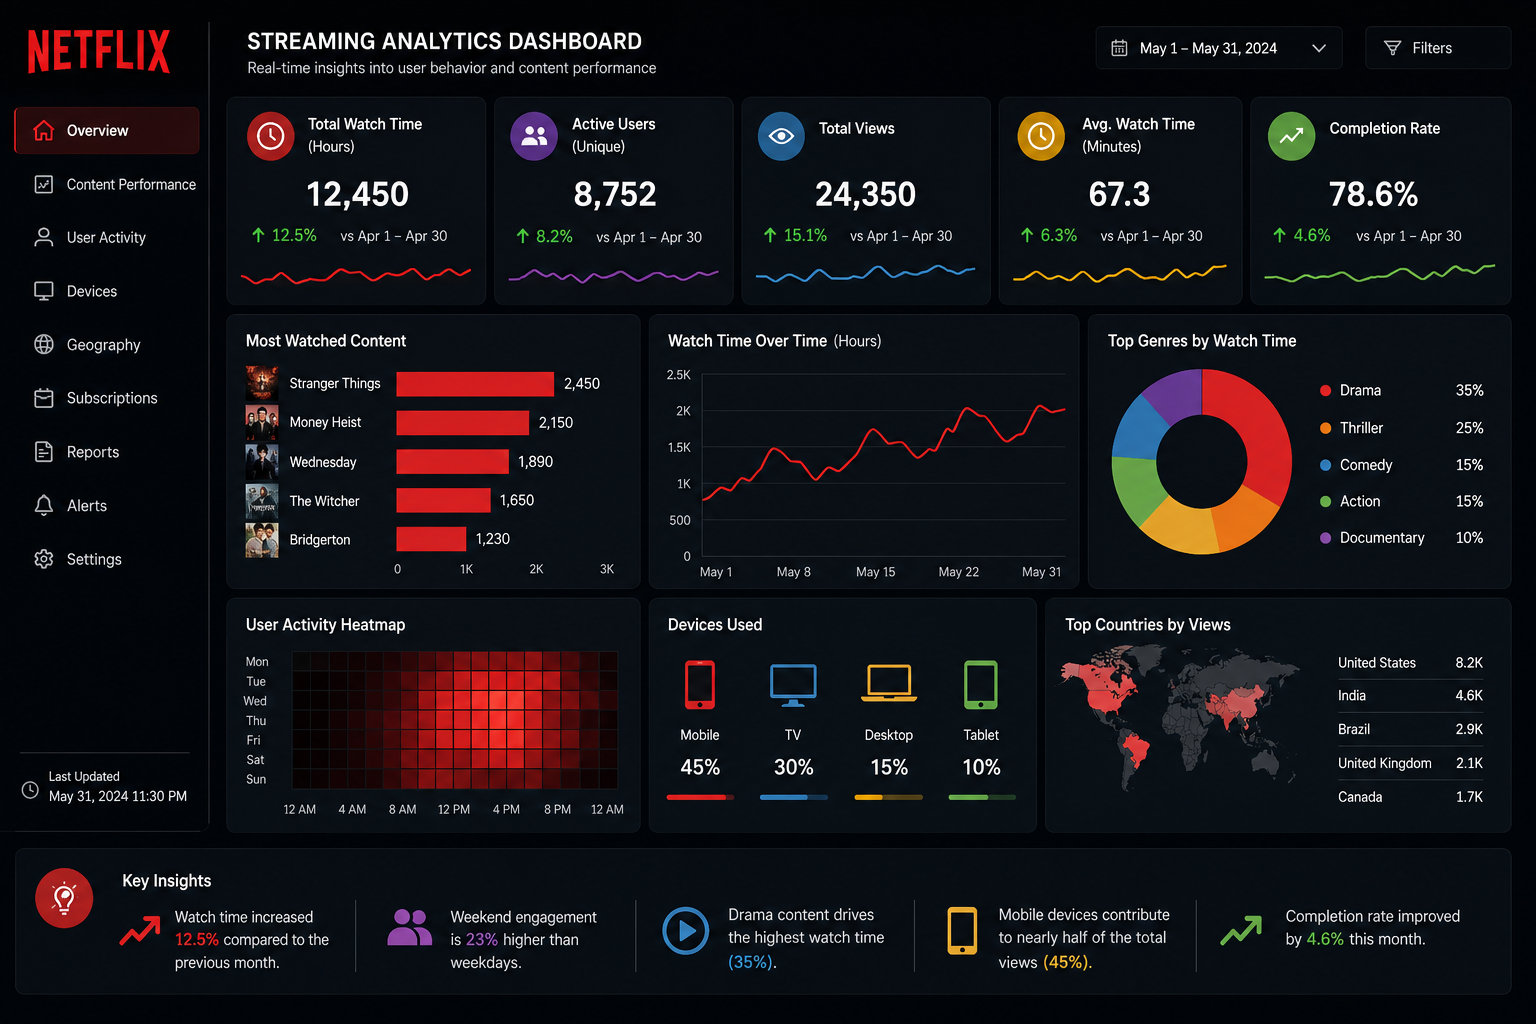
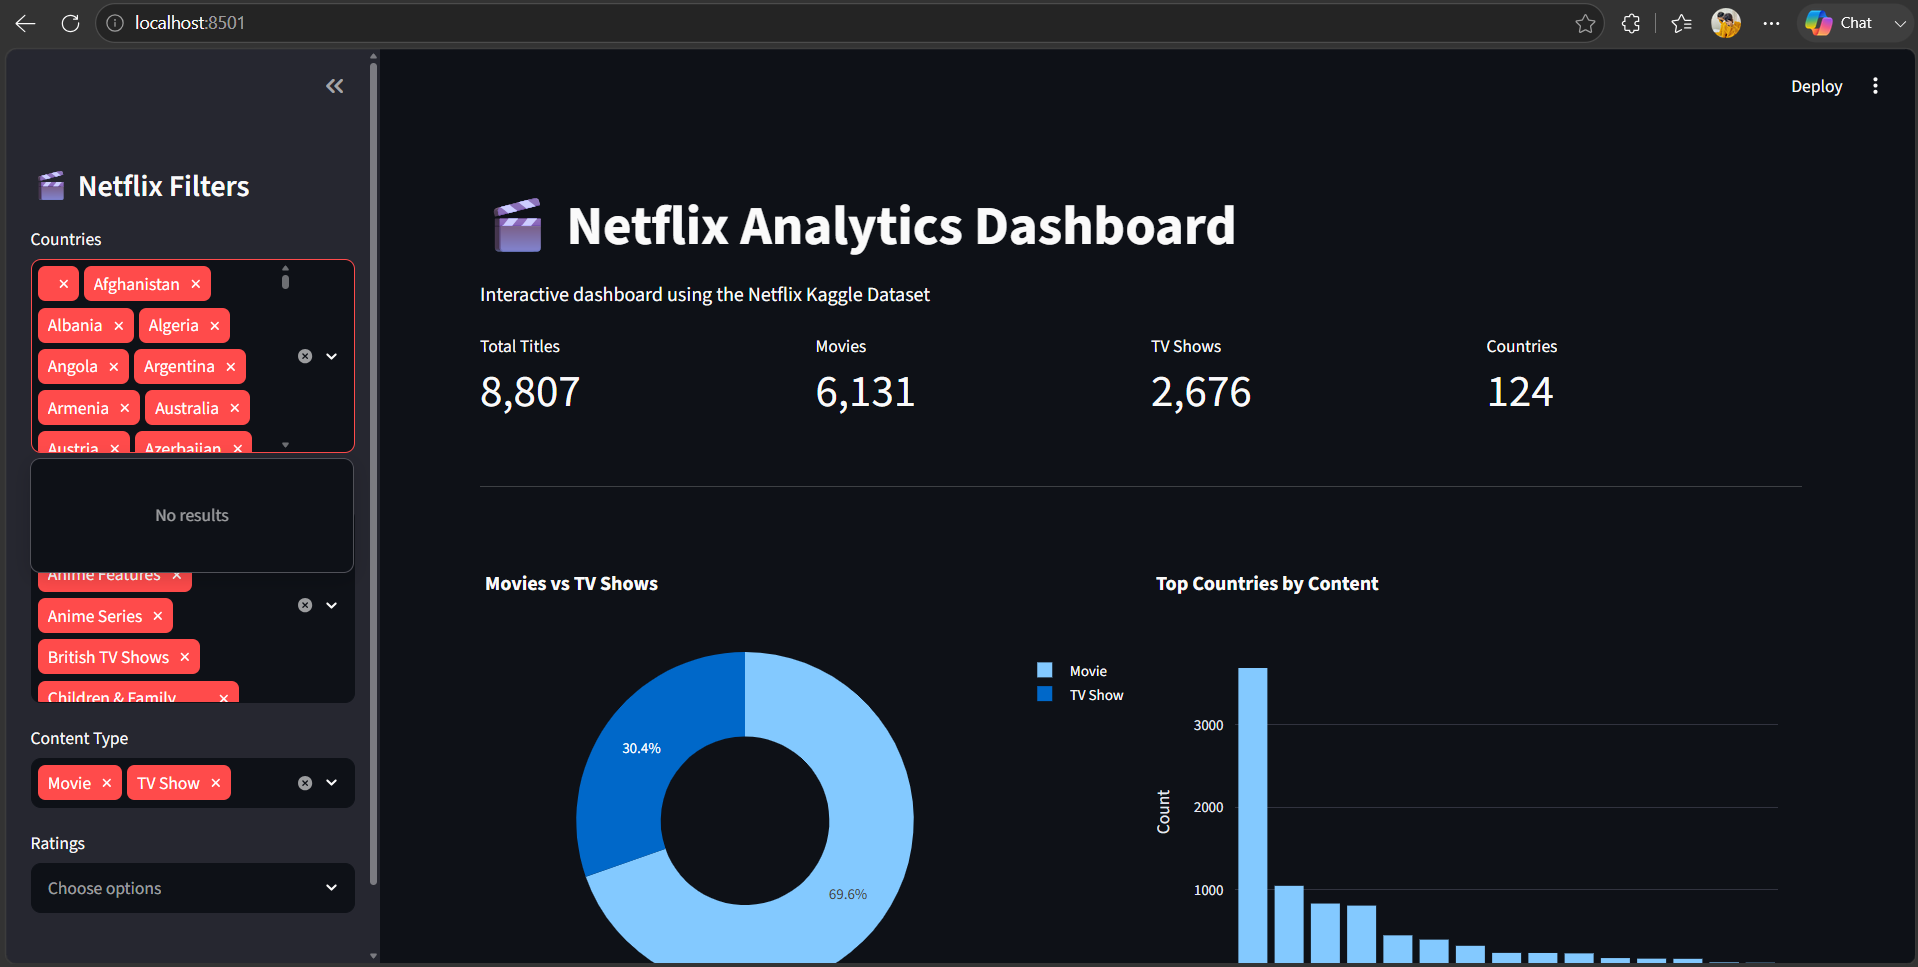
Added dashboard screenshot to README

diff --git a/README.md b/README.md
@@ -1,12 +1,19 @@
+# Netflix Analytics Dashboard
+
+## Dashboard Preview
+
+![Netflix Dashboard](images/dashboard.png)
+
+---
 # Netflix Data Processing Pipeline
 
 ## Architecture
 
 ![Architecture](images/arcitecture.png)
 
-## Dashboard Preview
+## Dashboard
 
-![Dashboard](<img width="1918" height="967" alt="dashboard-preview" src="https://github.com/user-attachments/assets/bb4ea3d9-b176-42ed-b62f-05d94dee458e"/>)
+![Dashboard](images/dashboard-preview.png)
 
 ## Team Members
 